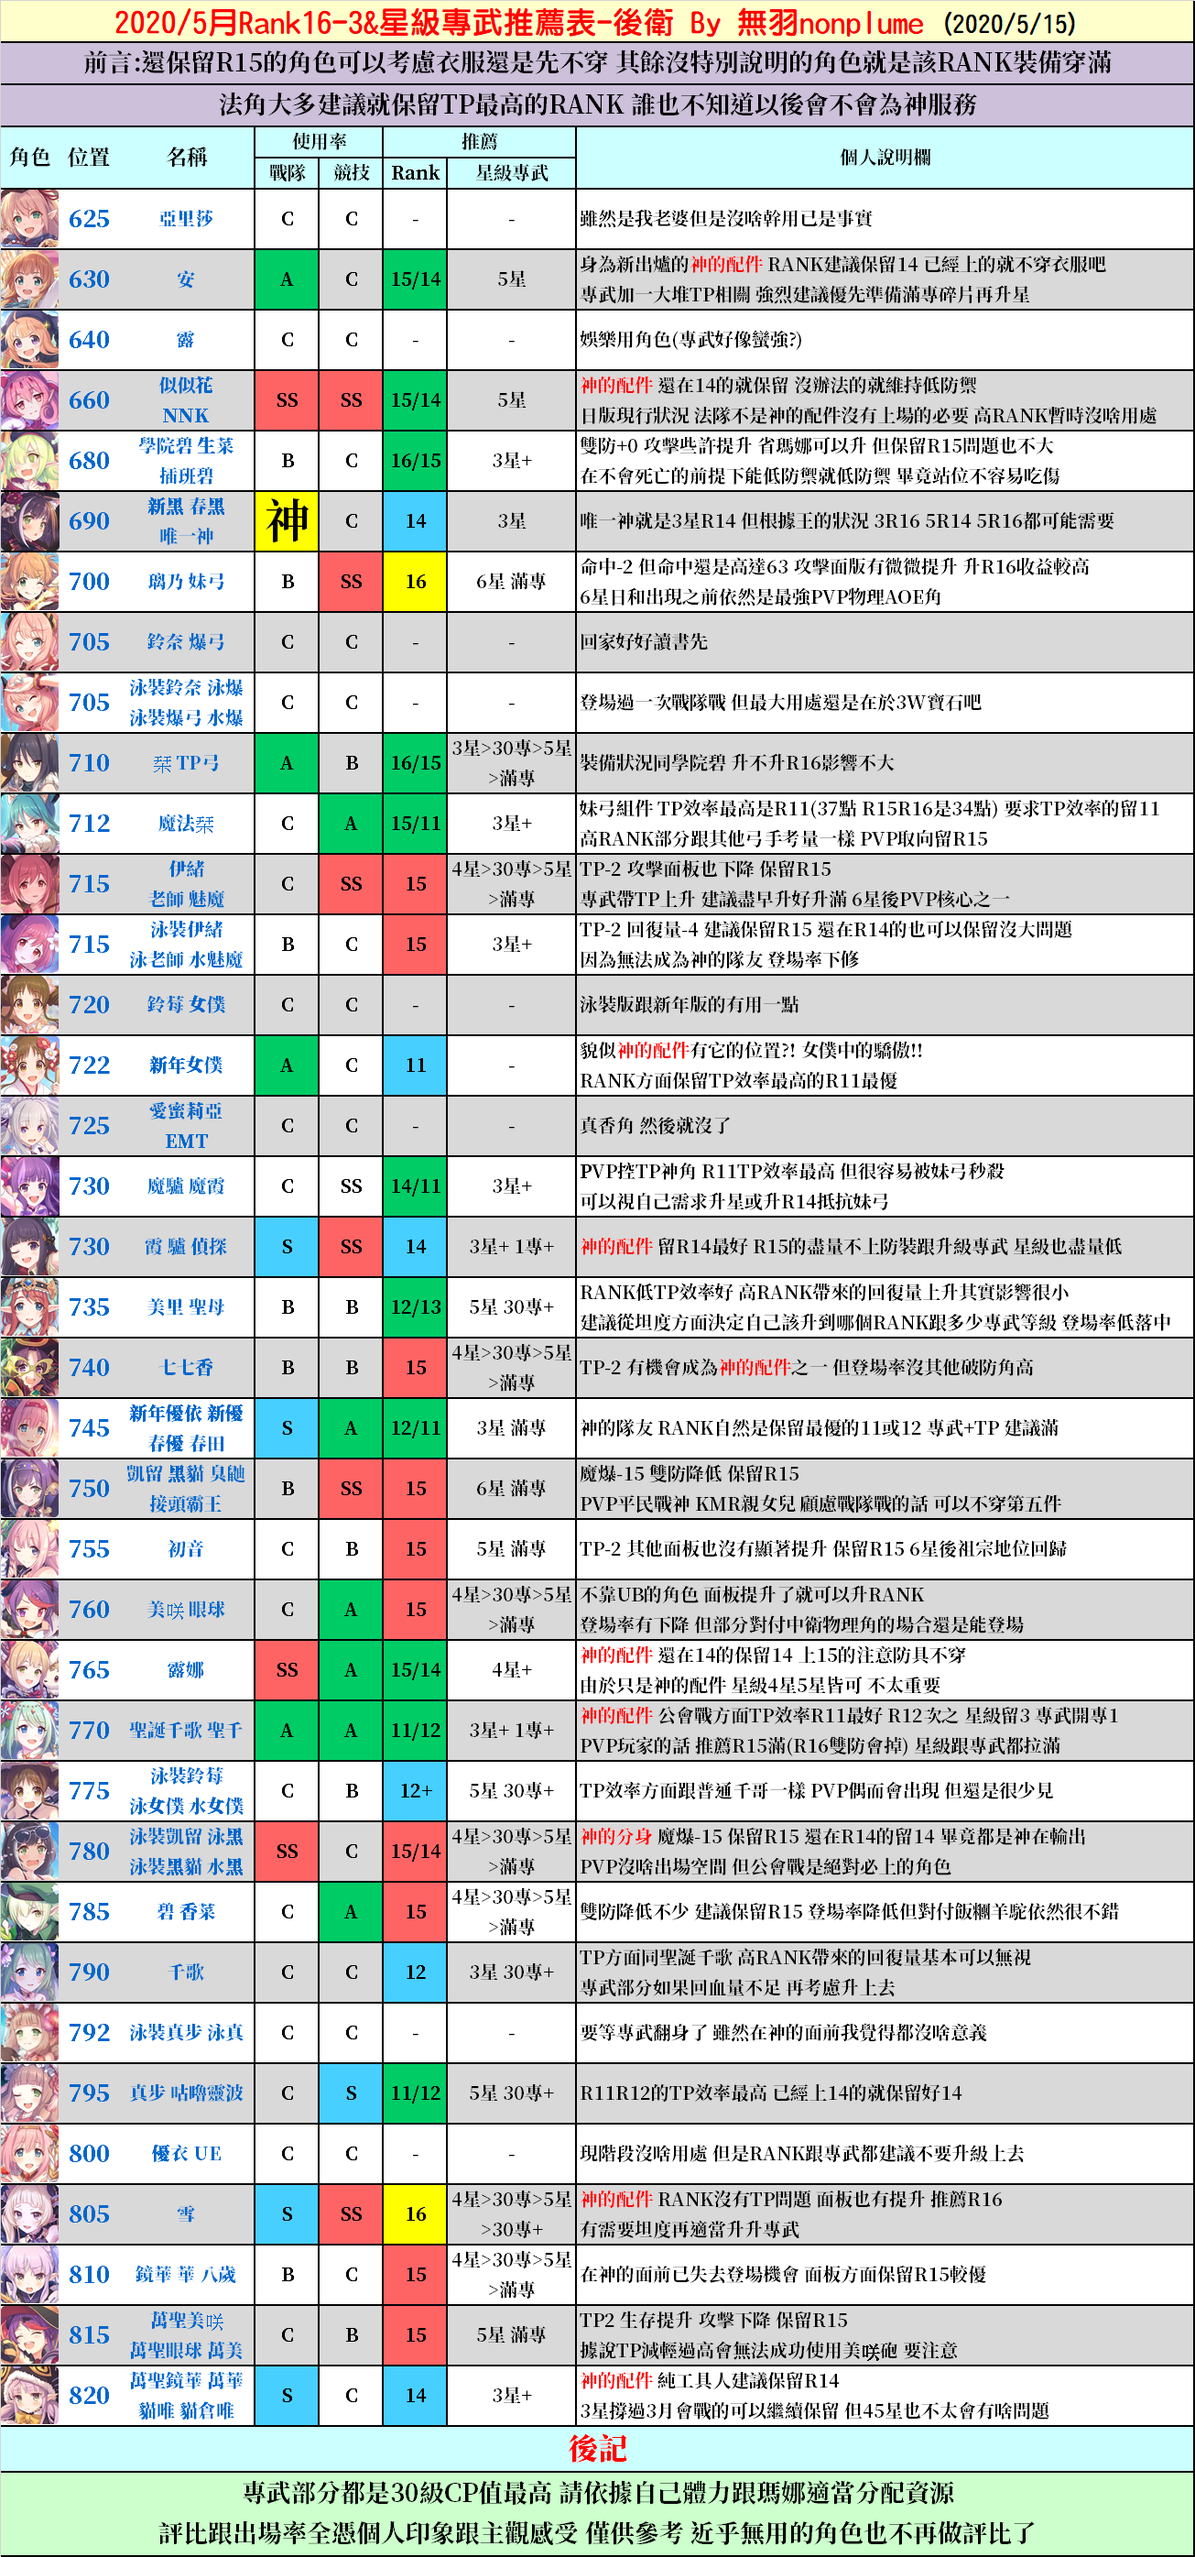
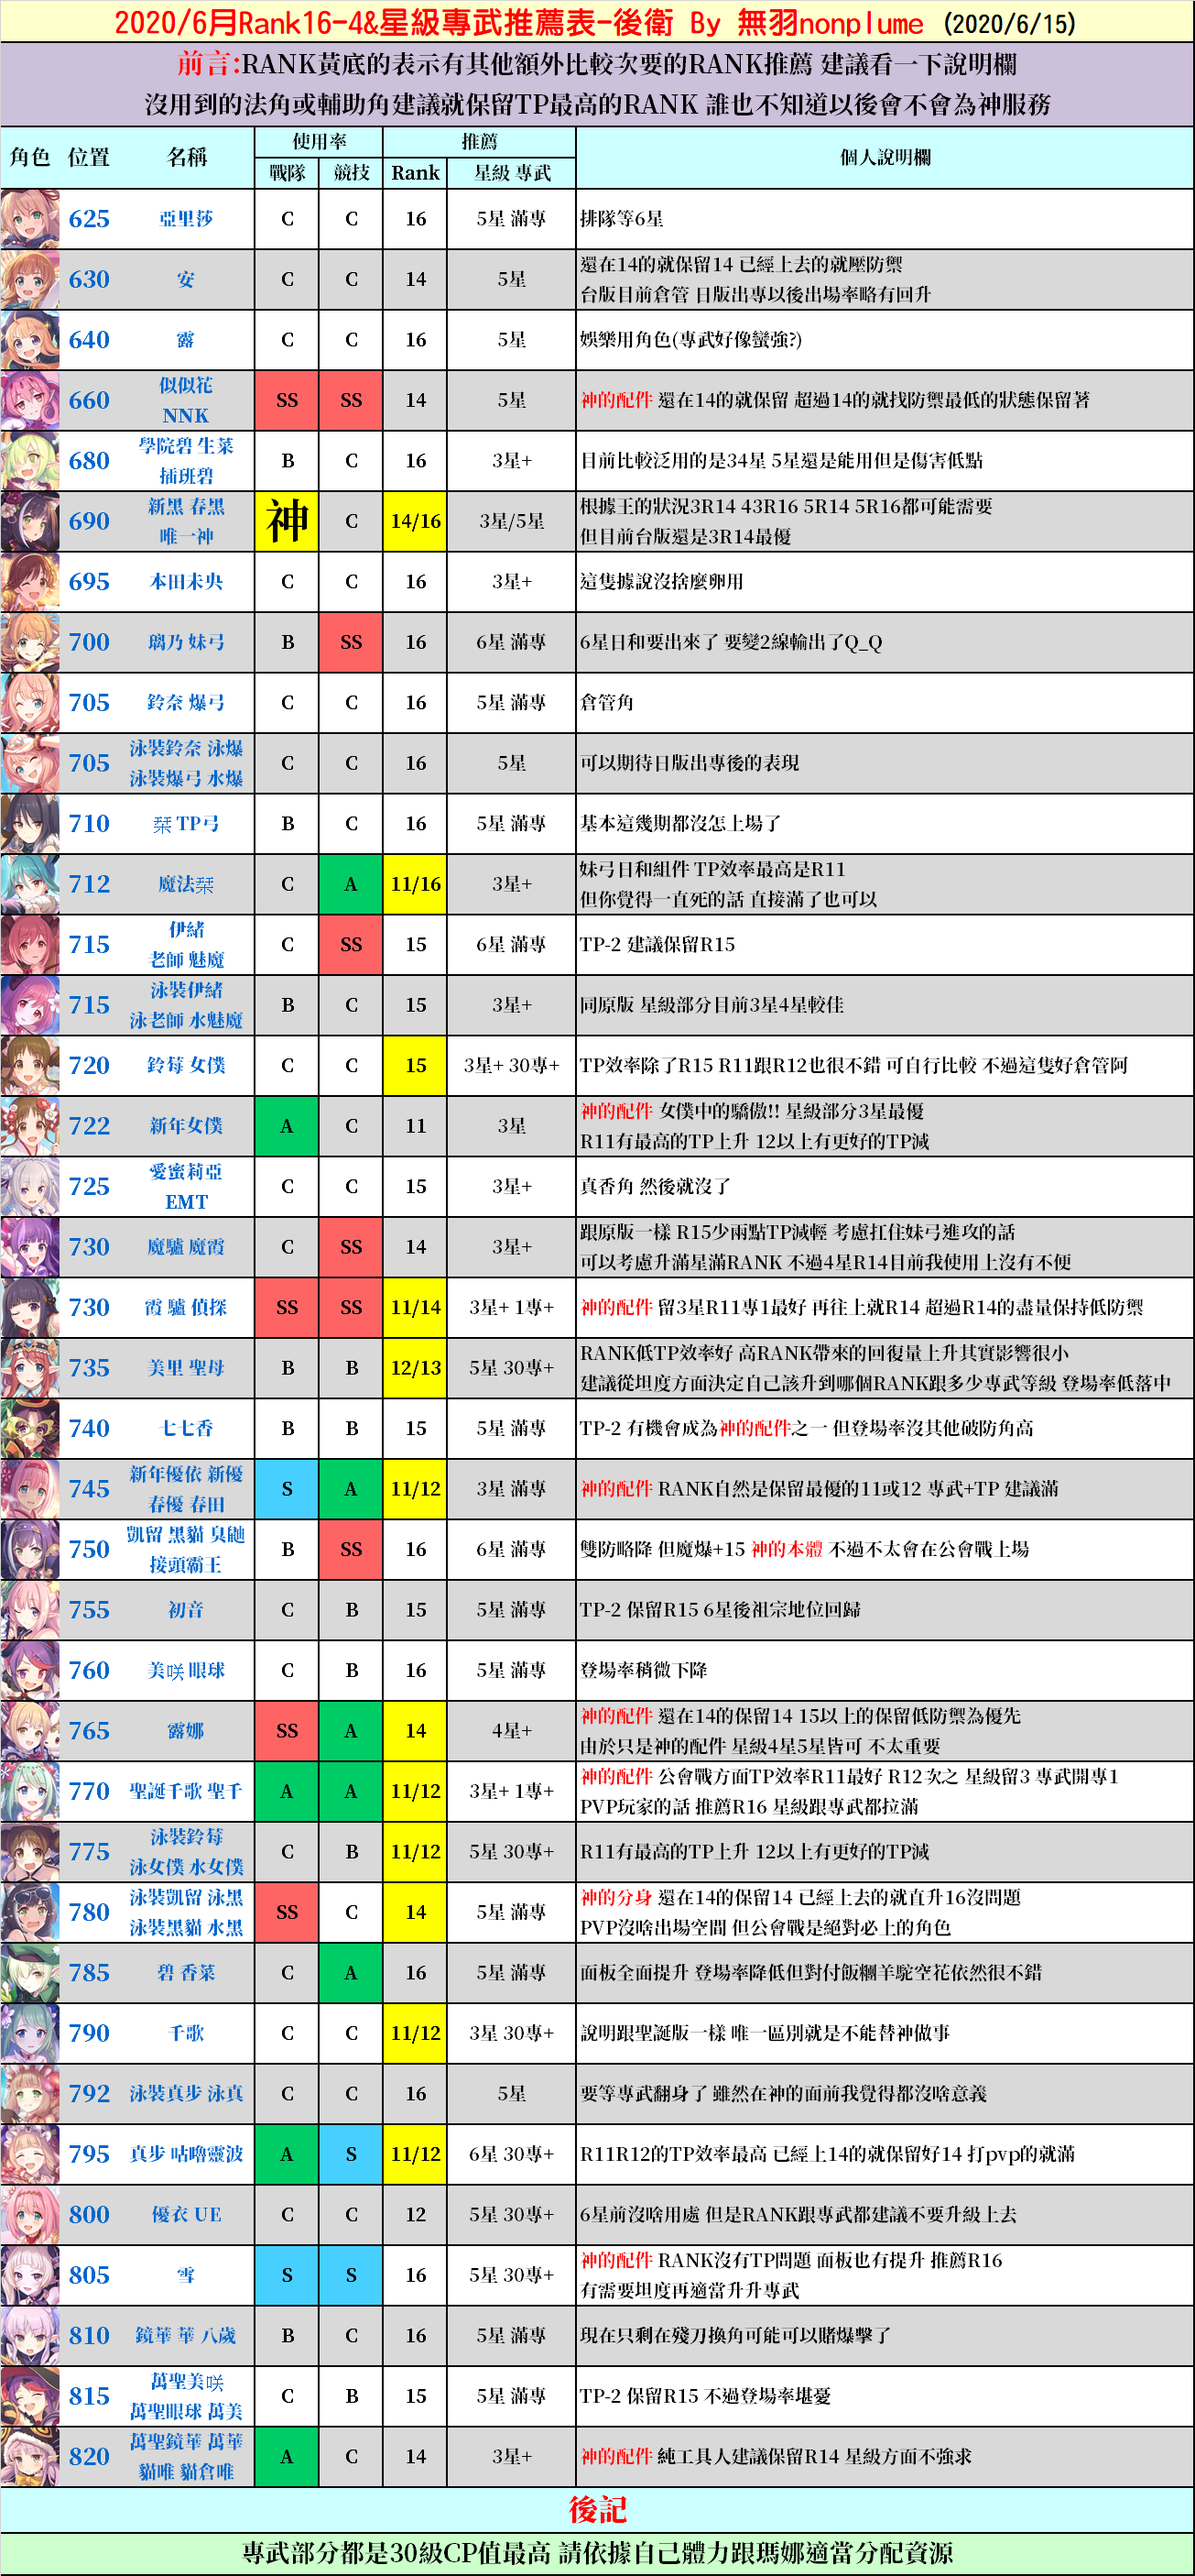
rank表更新

diff --git a/Chloe/group_chats/chats.py b/Chloe/group_chats/chats.py
@@ -42,25 +42,27 @@ async def decrease(session: NoticeSession):
 @on_command('前卫rank')
 async def _(session: CommandSession):
     path = os.path.join(os.path.dirname(__file__), "RF.png")
-    await session.send(f'無羽R16-3[CQ:image,file=file:///{path}]')
+    await session.send(f'無羽R16-4[CQ:image,file=file:///{path}]')
 
 
 @on_command('中卫rank')
 async def _(session: CommandSession):
     path = os.path.join(os.path.dirname(__file__), "RM.png")
-    await session.send(f'無羽R16-3[CQ:image,file=file:///{path}]')
+    await session.send(f'無羽R16-4[CQ:image,file=file:///{path}]')
 
 
 @on_command('后卫rank')
 async def _(session: CommandSession):
     path = os.path.join(os.path.dirname(__file__), "RB.png")
-    await session.send(f'無羽R16-3[CQ:image,file=file:///{path}]')
+    await session.send(f'無羽R16-4[CQ:image,file=file:///{path}]')
 
 
 @on_command('rank')
 async def _(session: CommandSession):
-    path = os.path.join(os.path.dirname(__file__), "Rank.png")
-    await session.send(f'煌灵R16-3[CQ:image,file=file:///{path}]')
+    path1 = os.path.join(os.path.dirname(__file__), "Rank1.png")
+    path2 = os.path.join(os.path.dirname(__file__), "Rank2.png")
+    path3 = os.path.join(os.path.dirname(__file__), "Rank3.png")
+    await session.send(f'煌灵R16-4[CQ:image,file=file:///{path1}][CQ:image,file=file:///{path2}][CQ:image,file=file:///{path3}]')
 
 
 @on_command('黄骑充电')
